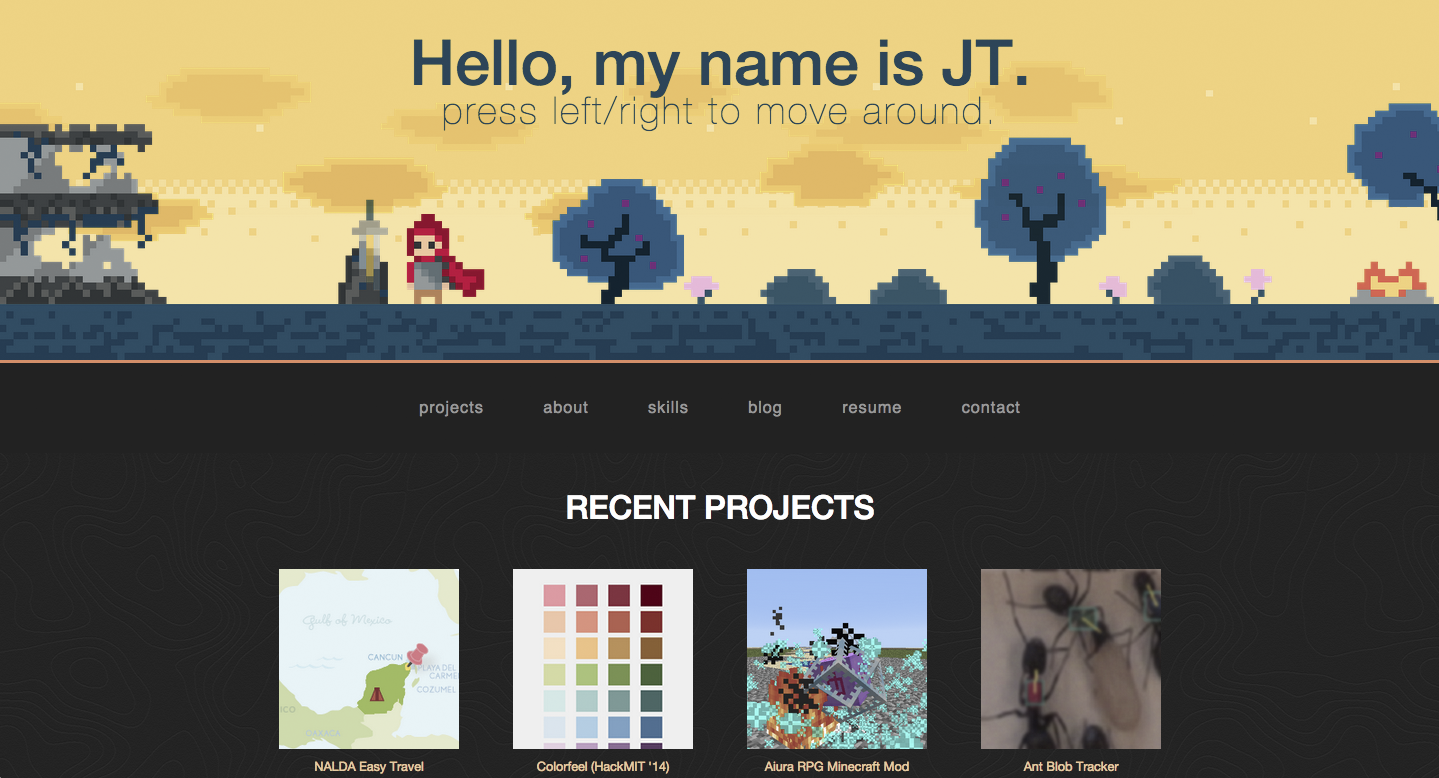
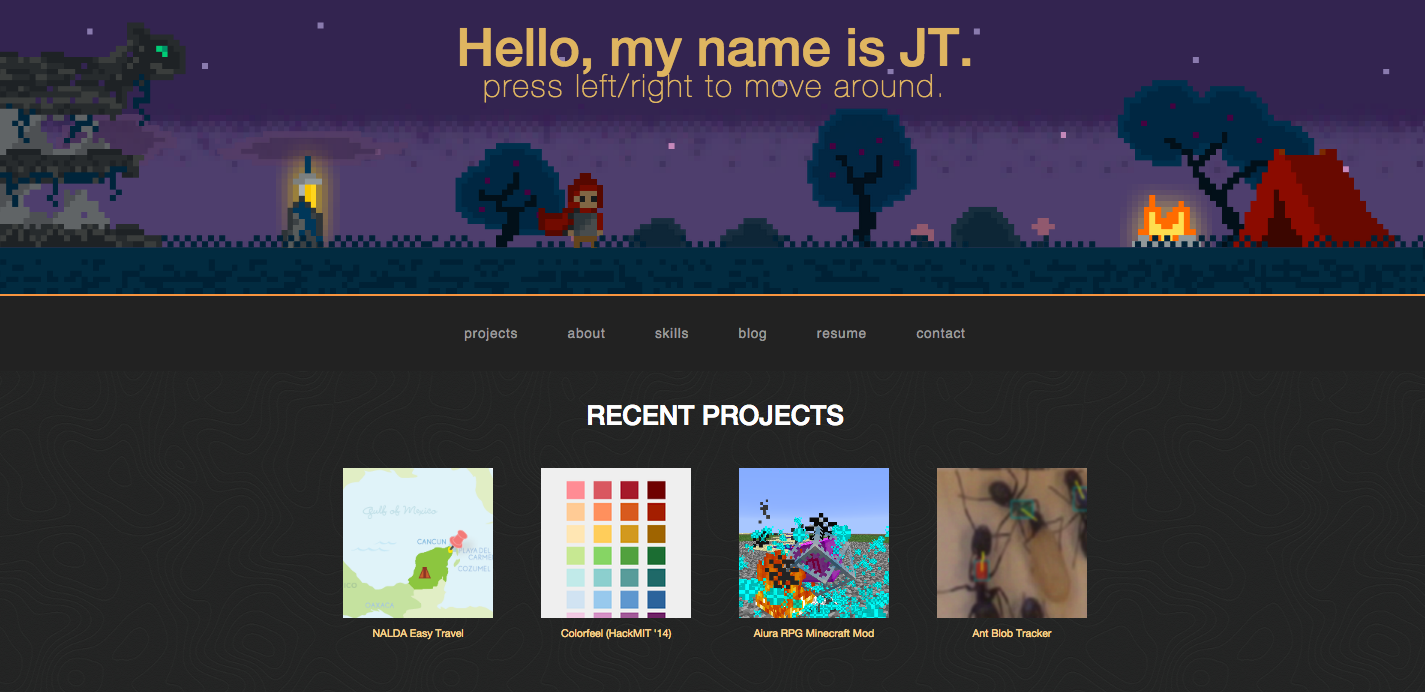
Updated readme and image.

diff --git a/client/components/portal/portal.controller.js b/client/components/portal/portal.controller.js
@@ -76,7 +76,7 @@ var initPortal = function($rootScope) {
 	else if (hours > 19 && hours < 21) {
 		tP = 'dusk';
 	}
-	else if (hours > 21 && hours < 24) {
+	else if (true || hours > 21 && hours < 24) {
 		tP = 'evening';
 	}
 	else if (hours > 0 && hours < 6) {

diff --git a/README.md b/README.md
@@ -2,7 +2,7 @@ jtcho.me
 ========
 Source code for [jtcho.me](http://jtcho.me).
 
-![alt tag](http://i.imgur.com/EfsAxH9.png)
+![alt tag](https://raw.githubusercontent.com/jtcho/jtcho.me/master/screenshot.png)
 
 This website is written on top of Node.js, using AngularJS and Express. I scaffolded using Yeoman's angular-fullstack generator and wrote most of the Angular, styling, and whatnot myself. I also make use of D3 for chart animations.
 
